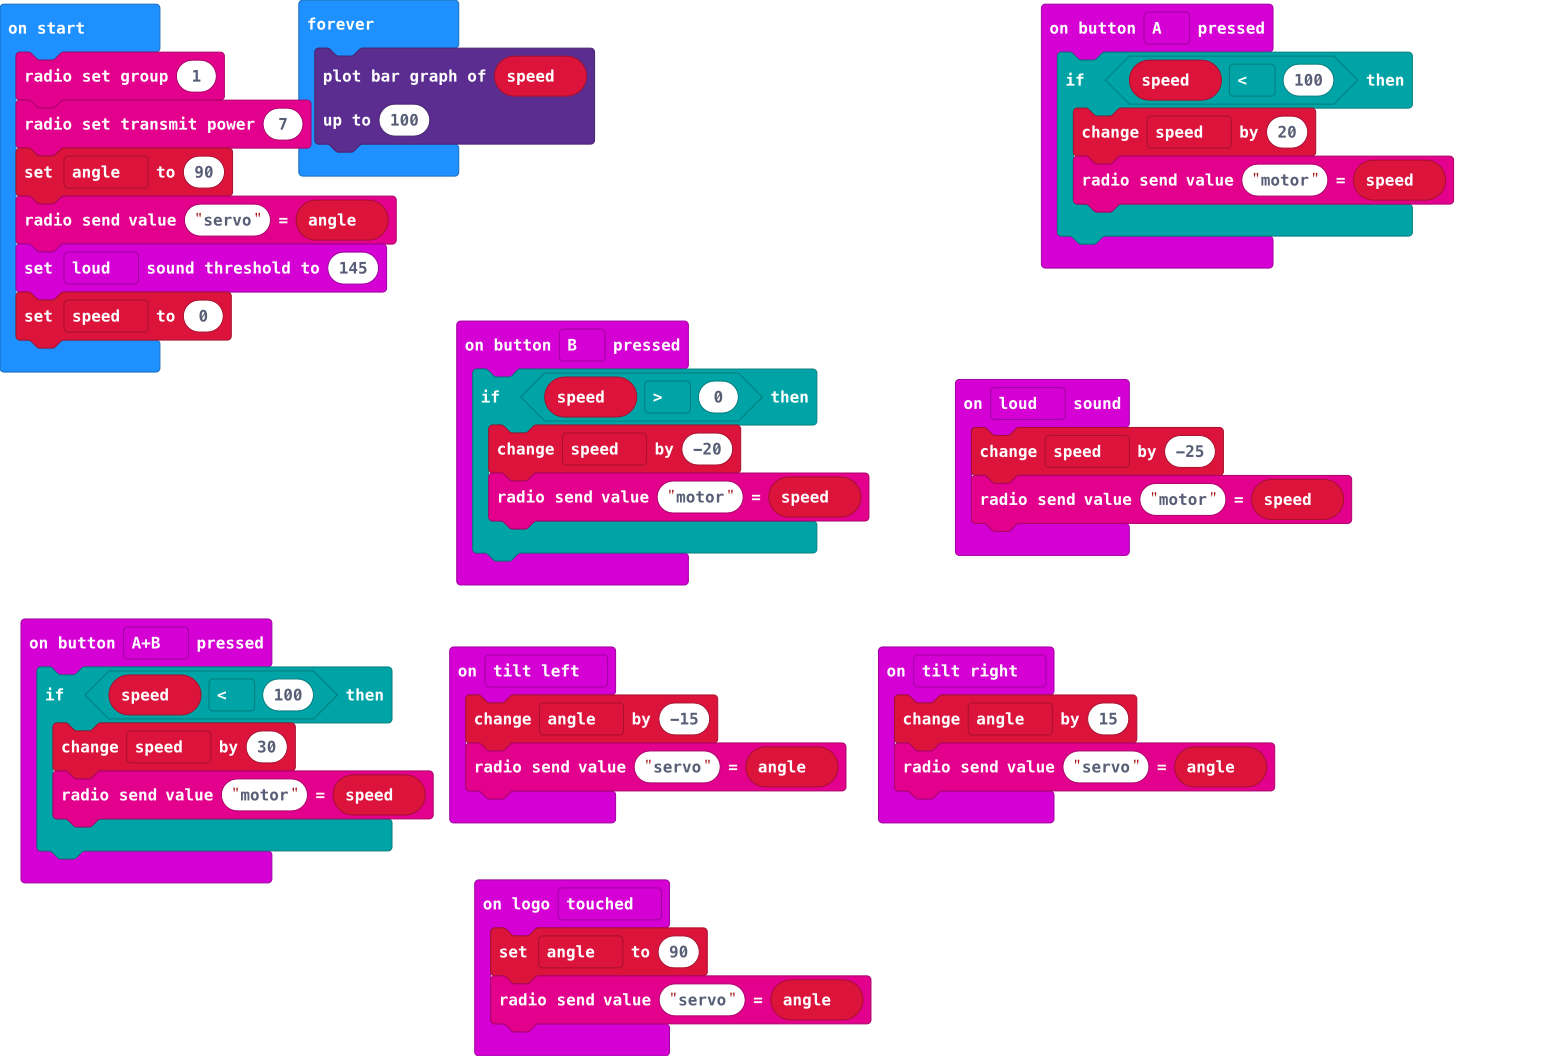
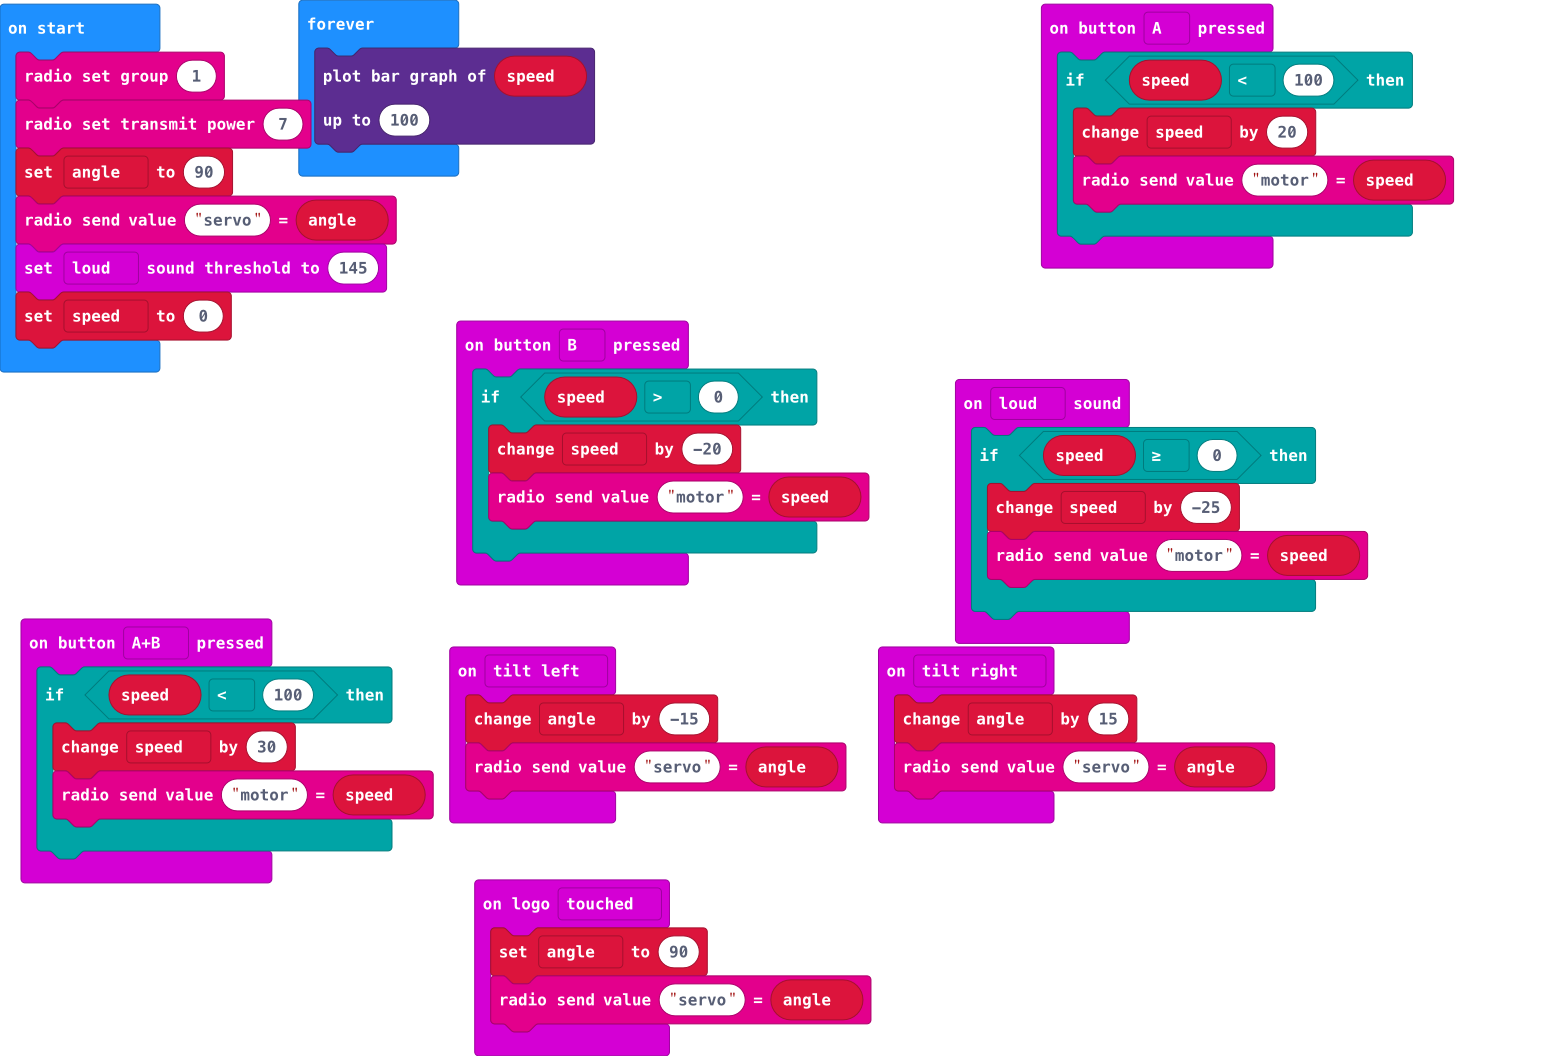
Update main.blocks, main.ts

Changed region(s): [[0.5854, 0.4062, 0.8935, 0.625]]

diff --git a/main.ts b/main.ts
@@ -9,8 +9,10 @@ input.onGesture(Gesture.TiltLeft, function () {
     radio.sendValue("servo", angle)
 })
 input.onSound(DetectedSound.Loud, function () {
-    speed += -25
-    radio.sendValue("motor", speed)
+    if (speed >= 0) {
+        speed += -25
+        radio.sendValue("motor", speed)
+    }
 })
 input.onButtonPressed(Button.AB, function () {
     if (speed < 100) {
